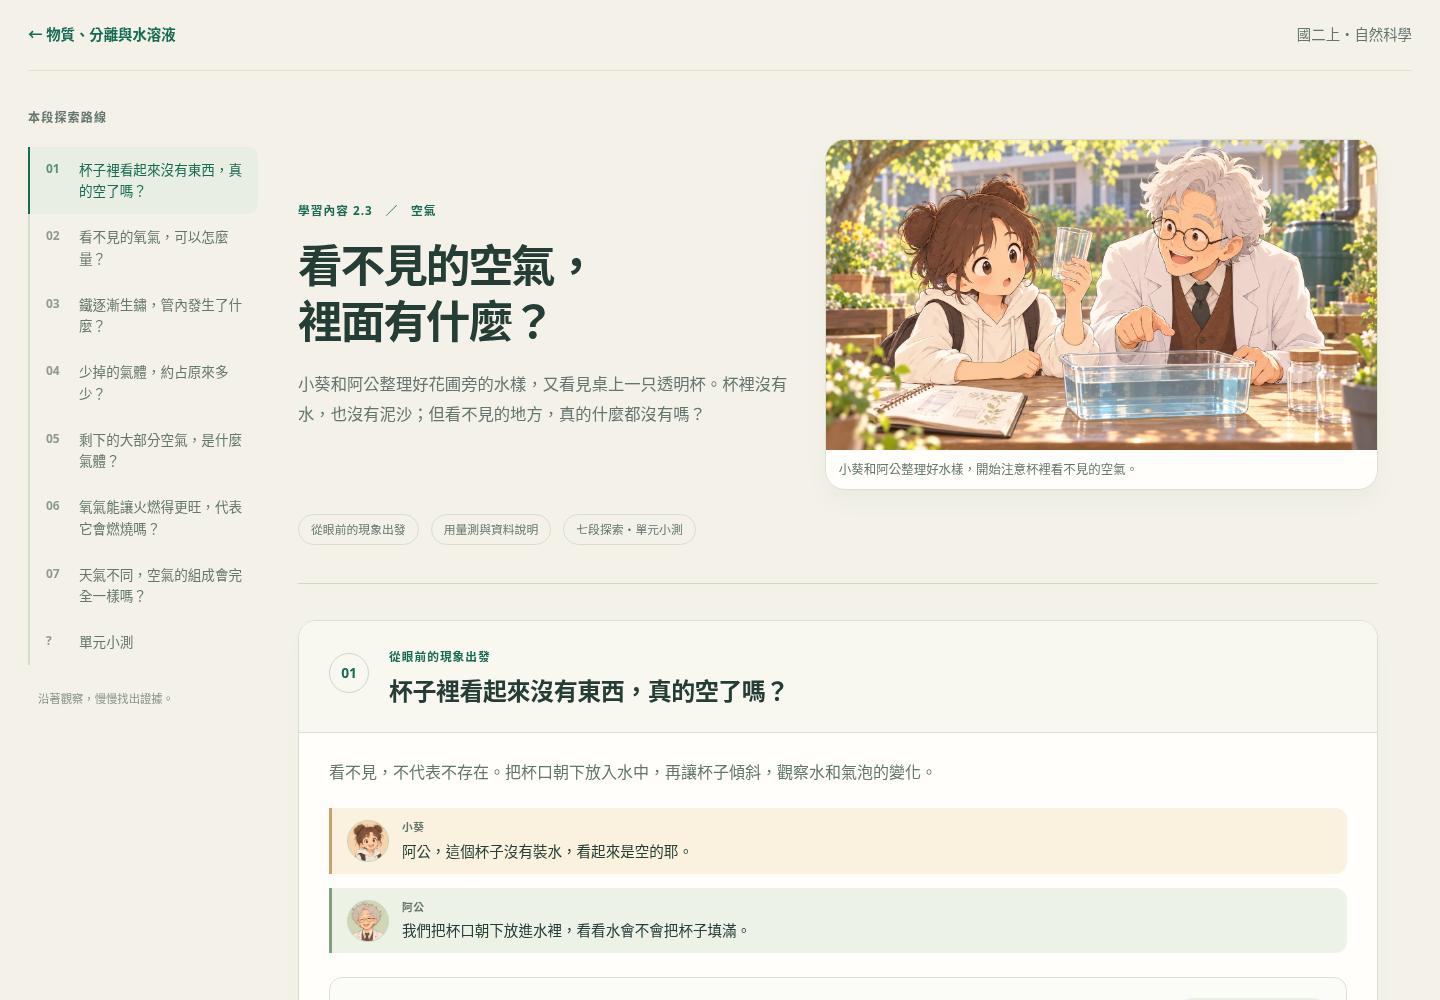
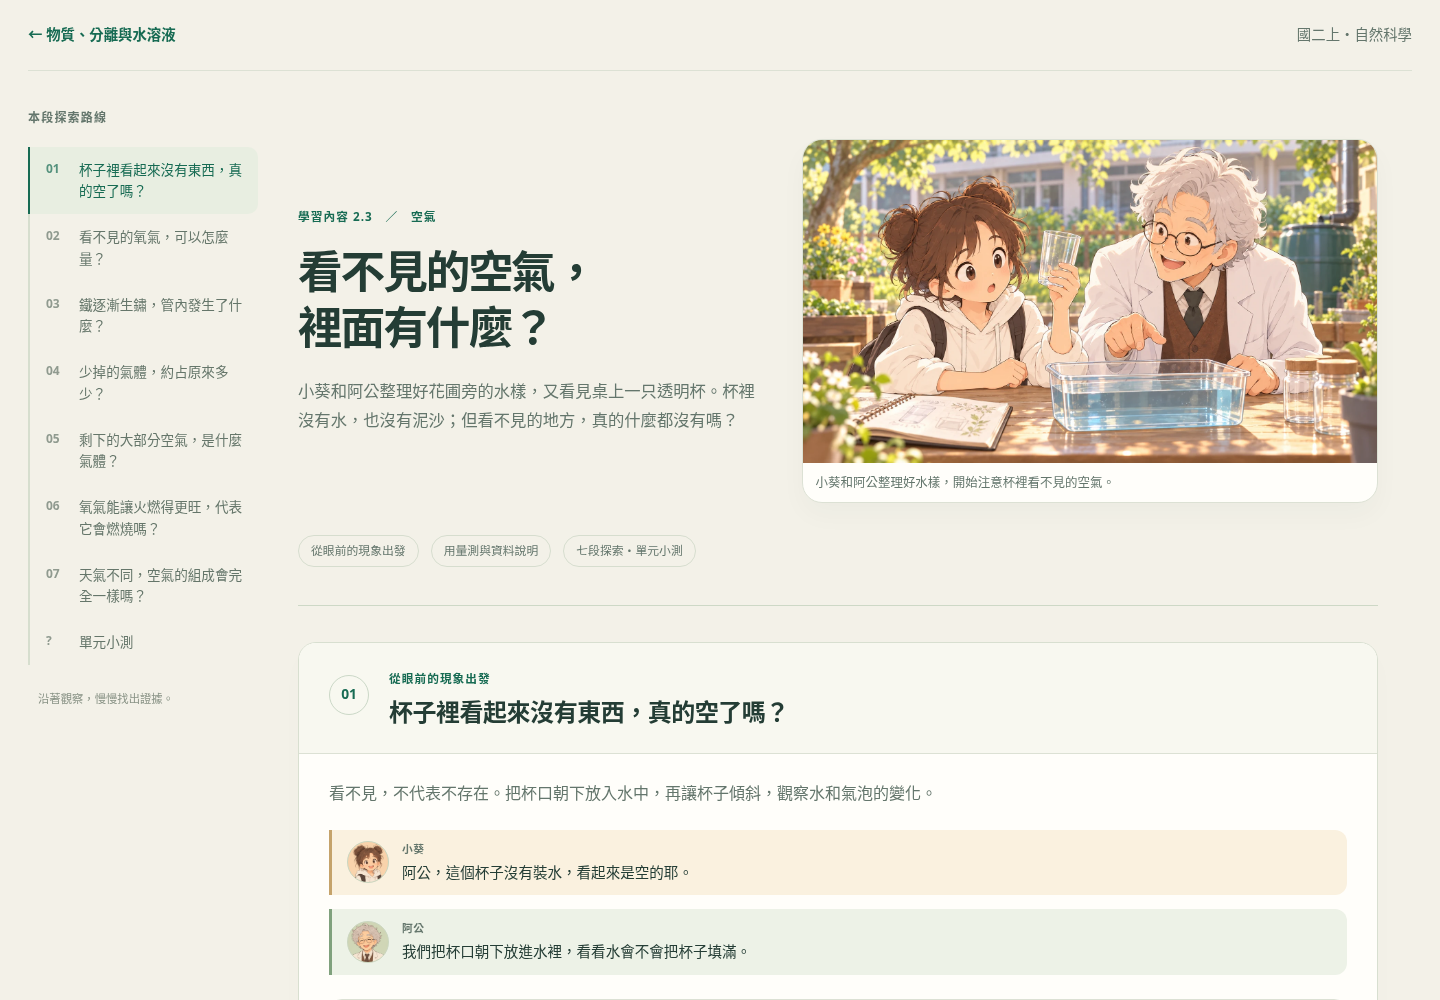
統一2.3開場圖文比例與窄畫面切換條件

diff --git a/units/2/parts/2.3/assets/air.css b/units/2/parts/2.3/assets/air.css
@@ -8,7 +8,7 @@
 .hit-tool{cursor:pointer}.hit-tool:hover{fill:#c1d7af44;stroke:#9eaf8e}
 
 /* 開場情境與獨立小測，沿用 1.1、1.2 的呈現慣例。 */
-.hero{display:grid;grid-template-columns:minmax(0,1fr) minmax(0,1.1fr);gap:24px;align-items:center}
+.hero{display:grid;grid-template-columns:minmax(0,.9fr) minmax(320px,1.1fr);gap:32px;align-items:center}
 .hero-copy{min-width:0}.hero-copy h1{font-size:clamp(2rem,3.1vw,3rem)}
 .hero-copy>p{margin:0;color:var(--muted);font-size:1.02rem}
 .hero-foot{grid-column:1/-1}
@@ -20,5 +20,4 @@
 .unit-quiz .quiz-mark{flex:0 0 50px;width:50px;height:50px;margin-top:0;border:0;border-radius:15px;background:#f5ead0;color:#8b6725;font-size:1.45rem}
 .unit-quiz .quiz-kicker{color:#946f2d;font-size:.82rem;letter-spacing:.06em}
 .quiz-intro{margin:9px 0 0;color:var(--muted);font-size:.9rem;font-weight:400}
-@media(max-width:1100px){.hero{grid-template-columns:1fr;gap:20px}.hero-copy h1{font-size:clamp(2rem,4.4vw,3rem)}.story-opening-figure{max-width:720px}}
-@media(max-width:760px){.hero{gap:18px}.hero-copy h1{font-size:2.3rem}.story-opening-figure{border-radius:16px}.unit-quiz .quiz-head{padding:20px 16px;gap:12px}.unit-quiz .quiz-mark{flex-basis:42px;width:42px;height:42px;border-radius:13px}.quiz-intro{font-size:.85rem}}
+@media(max-width:760px){.hero{grid-template-columns:1fr;gap:16px;padding:20px 0 25px}.hero-copy h1{font-size:2.3rem}.story-opening-figure{border-radius:16px}.unit-quiz .quiz-head{padding:20px 16px;gap:12px}.unit-quiz .quiz-mark{flex-basis:42px;width:42px;height:42px;border-radius:13px}.quiz-intro{font-size:.85rem}}

diff --git a/units/2/parts/2.3/assets/README.md b/units/2/parts/2.3/assets/README.md
@@ -5,6 +5,6 @@
 - `air.css`：沿用展示站綠色、紙色、對話頭像及垂直學習路線。人物使用根目錄 `shared-assets/characters/dialogue-character-avatars.png`，未新增副本。
 - 器材圖由程式繪製；圖中氣體透明，圖表顏色只用於分類。幾何與數據是教學模型，不是真實實驗紀錄或實物製造圖。
 - `air-story-opening.webp`：2026-10-29 依使用者要求補上的開場情境插圖。以共用人物頭像及 1.1 核可插圖為造型與畫風參考，使用圖像生成工具製作，轉存為 WebP；小葵為棕髮雙丸子頭、米白連帽上衣與深色背帶，阿公為白髮、圓框眼鏡、無鬍子及白袍。場景是花圃旁拿起空透明杯、準備使用水槽觀察，屬故事插圖，不是真實實驗照片。原始生成圖保留在工作區 `generated_images/`，頁面只載入本地 WebP，不依賴外站圖片。
-- 頁首採情境圖與文字並排、窄畫面上下排列；結尾 `#s8` 參照 1.1、1.2 的獨立「單元小測」版型，左側導覽也直接標示「單元小測」。維持一份整合檢核及原有資料判定，不新增第二個測驗。
+- 頁首參照 1.1、1.2 採文字／圖片 `0.9fr／1.1fr`、32px 欄距，760px 以下才改為上下排列；圖片原檔與兩個參考頁均為 1672×941，手機圖框移除額外左右內距，避免顯示占比不一致。結尾 `#s8` 參照其獨立「單元小測」版型，左側導覽也直接標示「單元小測」。維持一份整合檢核及原有資料判定，不新增第二個測驗。
 - 依據：`BillLaiTrade/k12` 的 `docs/product/units/4-matter-separation-and-aqueous-solutions/4.3-teaching-and-interaction-spec.md`。來源為 NOAA JetStream 空氣組成、RSC／Nuffield 鋼絲絨耗氧及 RSC 氧氣木條觀察教案，正式頁尾提供連結。
 - 檢查指令：`node --test tests/unit-2.3-model.test.cjs tests/unit-2.3.test.cjs`；瀏覽器可由 `CHROMIUM_PATH` 指定。執行結果另記錄於本次 review，不以此指令本身宣稱已通過。

diff --git a/docs/reviews/unit-2.3-opening-quiz/review.md b/docs/reviews/unit-2.3-opening-quiz/review.md
@@ -19,3 +19,21 @@
 - 推送後的 Pages 部署與公開檔案核對結果，另同步記入 k12 的 2.3 主紀錄及進度表。仍屬第 4 階段，待使用者檢視。
 
 公開入口：<https://billlaitrade.github.io/k12-learning-demos/units/2/parts/2.3/>；單元小測：<https://billlaitrade.github.io/k12-learning-demos/units/2/parts/2.3/#s8>。
+
+## 續修：圖片顯示占比（2026-10-29）
+
+使用者指出開場圖片相對其他單元的比例不一致。實際比對後，三頁原檔均為 1672×941，差異來自 2.3 過早在 1100px 以下改成單欄，而參考頁在 760px 以下才切換。
+
+- 本次將 2.3 圖文欄寬統一為 `minmax(0,.9fr) minmax(320px,1.1fr)`，欄距32px；760px以下單欄、欄距16px。手機頁首去掉額外左右5px內距。
+- 開場圖檔及 HTML 未變更，只修 CSS。比對與本機預覽讀得的圖片尺寸如下（四捨五入）：
+
+| 視窗寬度 | 修改前 2.3 | 修改後 2.3 | 1.2 參考頁 |
+| --- | --- | --- | --- |
+| 1440px | 551×310 | 574×323 | 560×315 |
+| 1024px | 718×404 | 409×230 | 340×191 |
+| 800px | 554×312 | 318×179 | 318×179 |
+| 390px | 354×199 | 364×205 | 364×205 |
+
+各頁外層容器與側欄寬度不同，桌機圖片的絕對像素不要求相等；本次統一的是圖文欄寬比例及切換條件。
+
+桌機、平板、較窄桌面與手機的預覽已擷取並目視檢視，四種視窗下文件寬度與視窗一致。桌機／手機開場截圖更新至本次版本，新增[1024px預覽](tablet-opening.png)、[800px預覽](compact-opening.png)。`git diff --check` 無格式問題。本次未新增或執行自動化測試。部署與公開版本結果另記於 k12 的 2.3 主紀錄及進度表。
